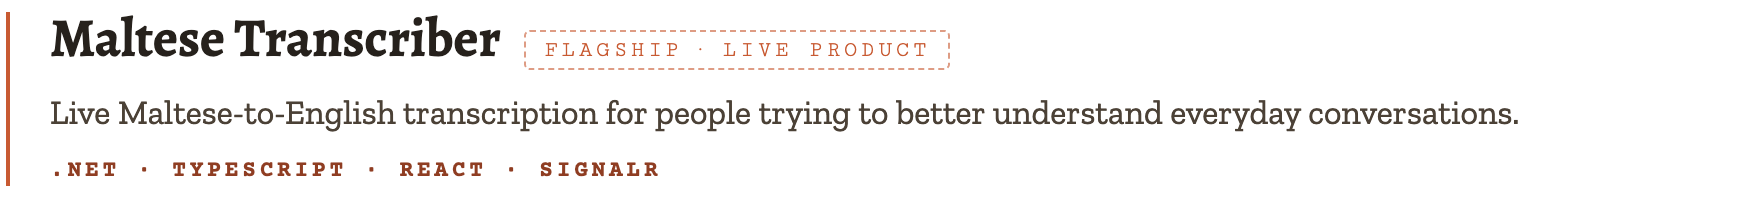
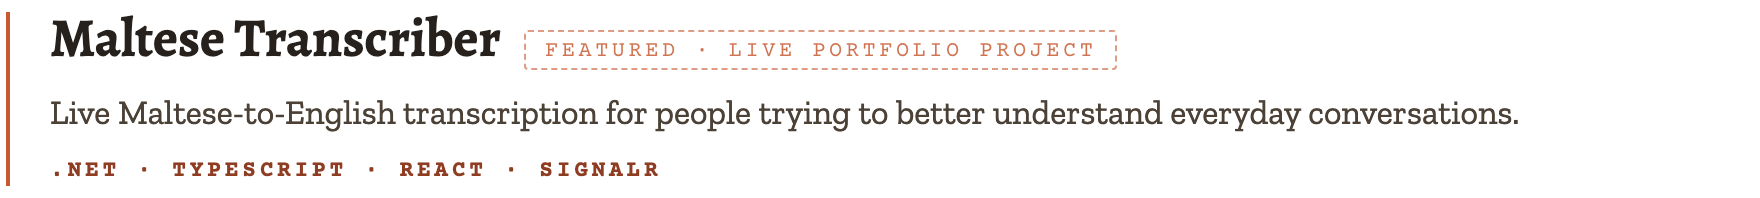
docs: bring danieldias.dev forward and relabel Maltese Transcriber
- A plain line under the lead artwork says what I do now: backend .NET,
  APIs and the live projects below.
- danieldias.dev moves out of the collapsed list and sits after the two
  backend projects, described by what running it involves.
- The Maltese Transcriber card and its alt text say "live portfolio
  project" instead of "live product". Only the label chip was redrawn,
  with Courier Prime and the same colours as the rest of the card.
- React and TypeScript sit under "Interfaces in my projects" at the end
  of Tech rather than as a Frontend block of their own.
- The URL Shortener line keeps to what the repository shows.

Changed region(s): [[0.3125, 0.2121, 0.625, 0.303], [0.2812, 0.3333, 0.625, 0.3636], [0.3125, 0.1515, 0.625, 0.1818]]

diff --git a/README.md b/README.md
@@ -12,6 +12,8 @@
   <img src="assets/lead-light.svg" alt=".NET Developer building practical web applications and APIs with C#, ASP.NET Core and SQL." width="518">
 </picture>
 
+Software developer focused on backend .NET. I build APIs and run the live projects below.
+
 </div>
 
 <picture>
@@ -28,11 +30,6 @@
 ![ASP.NET Core](https://img.shields.io/badge/ASP.NET_Core-E8DCC4?style=flat-square&logo=dotnet&logoColor=26211C)
 ![EF Core](https://img.shields.io/badge/EF_Core-E8DCC4?style=flat-square&logo=nuget&logoColor=26211C)
 
-**Frontend**
-
-![TypeScript](https://img.shields.io/badge/TypeScript-E8DCC4?style=flat-square&logo=typescript&logoColor=26211C)
-![React](https://img.shields.io/badge/React-E8DCC4?style=flat-square&logo=react&logoColor=26211C)
-
 **Data**
 
 ![SQL Server](https://img.shields.io/badge/SQL_Server-E8DCC4?style=flat-square&logo=microsoftsqlserver&logoColor=26211C)
@@ -46,6 +43,11 @@
 ![GitHub Actions](https://img.shields.io/badge/GitHub_Actions-E8DCC4?style=flat-square&logo=githubactions&logoColor=26211C)
 ![AZ-900](https://img.shields.io/badge/AZ--900_Certified-E8DCC4?style=flat-square&logo=microsoftazure&logoColor=26211C)
 
+**Interfaces in my projects**
+
+![TypeScript](https://img.shields.io/badge/TypeScript-E8DCC4?style=flat-square&logo=typescript&logoColor=26211C)
+![React](https://img.shields.io/badge/React-E8DCC4?style=flat-square&logo=react&logoColor=26211C)
+
 ## Projects
 
 [**Sports Betting API**](https://github.com/DeVFirmino/SportsBetting) [![CI](https://github.com/DeVFirmino/SportsBetting/actions/workflows/ci.yml/badge.svg?branch=develop)](https://github.com/DeVFirmino/SportsBetting/actions/workflows/ci.yml)<br>
@@ -58,24 +60,25 @@ Study project: one API in front of several simulated payment gateways. It reserv
 Tests: [idempotency race](https://github.com/DeVFirmino/PayMaestro/blob/main/tests/PayMaestro.Tests/IdempotencyReservationTests.cs) · [reconciliation](https://github.com/DeVFirmino/PayMaestro/blob/main/tests/PayMaestro.Tests/ReconciliationTests.cs)<br>
 <sub>.NET · ASP.NET CORE · EF CORE · SQLITE</sub>
 
+[**danieldias.dev**](https://danieldias.dev/en)<br>
+The .NET site I build and run, with a blog in five languages. A local tool turns a draft into five language editions and validates each one before it opens a pull request. CI audits the dependencies, and the metrics endpoint sits behind a token.<br>
+<sub>.NET · RAZOR PAGES · MARKDOWN · DOCKER · Source private</sub>
+
 <picture>
   <source media="(prefers-color-scheme: dark)" srcset="assets/card-maltese-dark.png">
-  <img src="assets/card-maltese-light.png" alt="Maltese Transcriber — flagship, live product. Live Maltese-to-English transcription for people trying to better understand everyday conversations. .NET, TypeScript, React, SignalR." width="100%">
+  <img src="assets/card-maltese-light.png" alt="Maltese Transcriber, featured, live portfolio project. Live Maltese-to-English transcription for people trying to better understand everyday conversations. .NET, TypeScript, React, SignalR." width="100%">
 </picture>
 
 [**Open live site ↗**](https://maltesetranscriber.mt) · <sub>Source private</sub>
 
 [**URL Shortener**](https://github.com/DeVFirmino/UrlShortner)<br>
-Distributed shortening service built for fast redirects, caching and horizontal scaling across multiple API instances.<br>
+Three stateless .NET replicas behind nginx, Redis cache-aside in front of Cassandra and collision handling for short codes, all started with one Docker Compose command.<br>
 <sub>.NET · REDIS · CASSANDRA · DOCKER</sub>
 
 <details>
-<summary><b>Five more projects</b></summary>
+<summary><b>Four more projects</b></summary>
 
 <br>
-
-[**daniel dias**](https://danieldias.dev/en) — the portfolio you're browsing now: projects, technical articles and my work as a .NET developer in one place.<br>
-<sub>.NET · RAZOR PAGES · MARKDOWN · DOCKER</sub>
 
 [**Good Hamburger**](https://github.com/DeVFirmino/good-hamburger) — order management API with combo discount rules, domain-level invariants and integration tests.<br>
 <sub>.NET · ASP.NET CORE · EF CORE · XUNIT</sub>
